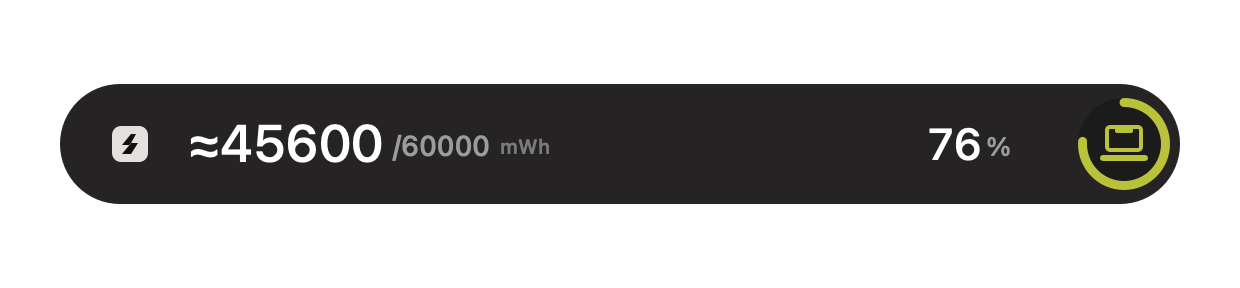
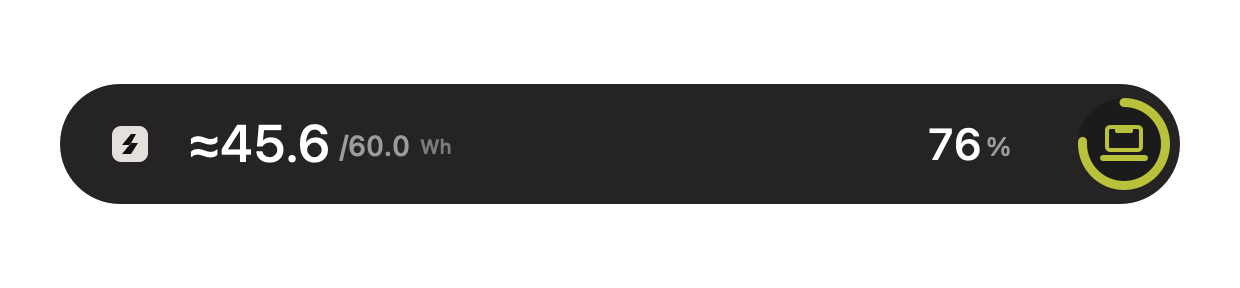
fix: display battery energy in Wh

Changed region(s): [[0.2145, 0.4062, 0.4597, 0.5625]]

diff --git a/Sources/EndfieldCharge/HUDView.swift b/Sources/EndfieldCharge/HUDView.swift
@@ -123,11 +123,11 @@ final class HUDView: NSView {
     private func drawNumbers(_ f: HUDFrame) {
         guard f.numbersOpacity > 0 else { return }
         let alpha = f.numbersOpacity
-        let current = snapshot.energyWh.map { String(format: "≈%.0f", $0 * 1000) } ?? "—"
-        let full = snapshot.fullEnergyWh.map { String(format: "/%.0f", $0 * 1000) } ?? "/—"
+        let current = snapshot.energyWh.map { String(format: "≈%.1f", $0) } ?? "—"
+        let full = snapshot.fullEnergyWh.map { String(format: "/%.1f", $0) } ?? "/—"
         let currentWidth = drawText(current, at: NSPoint(x: 94, y: 56), size: 26, alpha: alpha)
         let fullWidth = drawText(full, at: NSPoint(x: 98 + currentWidth, y: 64), size: 14, alpha: alpha * 0.55)
-        drawText("mWh", at: NSPoint(x: 103 + currentWidth + fullWidth, y: 67), size: 10, alpha: alpha * 0.4)
+        drawText("Wh", at: NSPoint(x: 103 + currentWidth + fullWidth, y: 67), size: 10, alpha: alpha * 0.4)
         let percentage = snapshot.percent.map(String.init) ?? "—"
         let numberWidth = textWidth(percentage, size: 22)
         drawText(percentage, at: NSPoint(x: 491 - numberWidth, y: 59), size: 22, alpha: alpha)

diff --git a/Sources/EndfieldCharge/SettingsView.swift b/Sources/EndfieldCharge/SettingsView.swift
@@ -126,7 +126,7 @@ struct SettingsView: View {
             Text(t("终末地风格的 macOS 原生电量终端", "A native Endfield-inspired macOS battery HUD"))
             Text(t("视觉、图案和动画参考 QinAnze/zmd-charge。原生实现：Mark Yang。", "Visuals, geometry and timing inspired by QinAnze/zmd-charge. Native implementation: Mark Yang."))
                 .font(.caption).foregroundStyle(.secondary)
-            Text(t("“超充模式”为主题文案，不代表检测到快充。mWh 为根据当前电压推算的近似能量。", "“Super charge” is theme copy, not fast-charge detection. mWh is an estimate using the current voltage."))
+            Text(t("“超充模式”为主题文案，不代表检测到快充。Wh 为根据当前电压推算的近似能量。", "“Super charge” is theme copy, not fast-charge detection. Wh is an estimate using the current voltage."))
                 .font(.caption).foregroundStyle(.secondary)
             HStack {
                 Link(t("GitHub 仓库", "GitHub Repository"), destination: URL(string: "https://github.com/MarkYang44/Endfield-Charge")!)

diff --git a/README.md b/README.md
@@ -21,12 +21,12 @@
 - 忠实保留 560×60 → 560×90 → 560×60 胶囊、双平行四边形电标、白色标题、黄绿色笔记本电量环；低于 20% 时电量环变红。
 - 插电波纹向外扩散，拔电波纹向内收拢；HUD 不抢焦点、不挡鼠标，位于菜单栏和刘海下方。
 - IOKit 电源事件监听、400ms 去抖、30 秒刷新兜底和唤醒后刷新。动画计时器仅在 HUD 展示时运行。
-- 真实百分比、剩余时间和近似 mWh；正确区分接电未充电、正在充电、已充满及电池供电。
+- 真实百分比、剩余时间和近似 Wh（一位小数）；正确区分接电未充电、正在充电、已充满及电池供电。
 - 多显示器选择、顶部左/中/右、40–120% 缩放、3–10 秒时长、波纹开关、中文/英文/跟随系统、菜单栏百分比。
 - 低电量、充满和系统低电量模式切换提醒，阈值可调；首次启动不会补发历史提醒。
 - 跟随系统“减少动态效果”，使用简化淡入淡出。设置自动保存到应用的 UserDefaults 域。
 
-“超充模式”沿用主题文案，**不代表实际检测到快充协议**。macOS IOPS 的容量通常是百分比，本项目不会把 100% 假装成 100mAh。mWh 只在系统另有原始物理容量和电压时推算，并以 **≈** 标注；这些 registry 字段并非稳定的公开接口，读不到时显示 `—`。根据当前电压估算的能量不能当作精确测量。充满提醒以系统已充满，或停止充电且 ≥99% 为准，并在重新消耗至 ≤95% 或拔电后重新允许提醒。
+“超充模式”沿用主题文案，**不代表实际检测到快充协议**。macOS IOPS 的容量通常是百分比，本项目不会把 100% 假装成 100mAh。Wh 只在系统另有原始物理容量和电压时推算，并以 **≈** 标注；这些 registry 字段并非稳定的公开接口，读不到时显示 `—`。根据当前电压估算的能量不能当作精确测量。充满提醒以系统已充满，或停止充电且 ≥99% 为准，并在重新消耗至 ≤95% 或拔电后重新允许提醒。
 
 ## 从源码构建
 

diff --git a/docs/verification.md b/docs/verification.md
@@ -28,4 +28,12 @@ Physical charger insertion/removal, a real full-battery/low-battery cycle, sleep
 - [GitHub Actions run 37186658956](https://github.com/MarkYang44/Endfield-Charge/actions/runs/37186658956) completed successfully: tests, universal app build and artifact upload all passed. The tag-only release job was correctly skipped on the main-branch push.
[1 lines of base64/hex data omitted]
 
-The final follow-up commit updates documentation only and skips a duplicate CI run. Native source and the tested application are unchanged. Physical-system and signing limits above still apply.
+The publication follow-up commit updates documentation only and skips a duplicate CI run. Native source and the tested application were unchanged at that stage. Physical-system and signing limits above still apply.
+
+## Wh display update
+
+- Hardware inspection confirms this local machine is a MacBook Air, identifier Mac17,3, with an Apple M5 chip.
+- HUD energy values now use Wh directly with one decimal place, preserving the approximate-value marker. The previous multiplication by 1000 and milli-unit label were removed; the underlying battery reader and energy calculation are unchanged.
+- Settings copy, README, design specification and numeric preview image were updated together. A freshly exported demo frame visibly reads `≈45.6 /60.0 Wh`.
+- Both arm64 and x86_64 builds completed successfully. The repackaged zip was extracted separately; strict signature verification passed and its executable matches the app byte-for-byte.
[1 lines of base64/hex data omitted]

diff --git a/docs/design.md b/docs/design.md
@@ -19,7 +19,7 @@ Alternatives considered: porting Avalonia preserves framework familiarity but ad
 - Menu bar: actual percentage, preview, charging/battery demos, settings, quit. A configurable native global shortcut previews actual state without accessibility permission.
 - Settings: display, top-left/center/right, scale, duration, Chinese/English/system language, low-battery/full-charge alerts, low-power-mode alerts, and opt-in launch at login.
 - Use debounced IOKit change events with a slow fallback refresh, recover after sleep, avoid duplicate alert storms, and handle Macs without batteries.
-- Display mAh only when that unit is actually available. An energy value in mWh derived from capacity and current voltage must be marked approximate. Unknown data must remain unknown rather than using invented capacities.
+- Display mAh only when that unit is actually available. An energy value in Wh derived from capacity and current voltage must be marked approximate and displayed with one decimal place. Unknown data must remain unknown rather than using invented capacities.
 
 ## Delivery and verification
 
